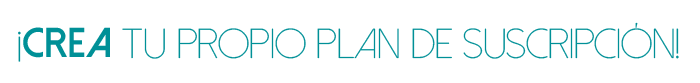
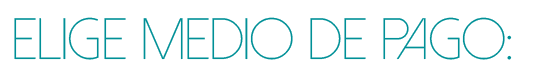
Esqueleto de suscripción de una usuario

Changed region(s): [[0.0, 0.1928, 0.9888, 0.747]]

diff --git a/src/app/components/suscribe/suscribe.component.html b/src/app/components/suscribe/suscribe.component.html
@@ -11,16 +11,43 @@
         <span></span>
       </div>
       <div class="d-flex justify-content-center">
-        <div class="cont">
+        <div class="cont  pt-lg-md">
           <div class="card shadow">
             <div class="col-12 card card-main bg-white">
-                <p><i><small>Elige un medio de pago:</small></i></p><br>
-                <ngx-paypal [config]="payPalConfig"></ngx-paypal>
-                          
-
-            </div>
+              <br><h1>Elige un plan de Suscripción:</h1>
+                <div class="card-group">
+                  <div   *ngFor="let plan of plans">
+                    <div class="card cards" >
+                      <br><div class="card-title">{{plan.namePlan}}</div>
+                        <font color="#27798f" size="6" face="Open Sans"><br><i><b>${{plan.price}}</b></i></font><font color="#27798f" size="4" face="Open Sans"> /mes</font>            
+                         <div class="card-body">
+                          <button type="button" class="mat-button" (click)="triggerModal(modalData)" style="background-color: #569e86;">Suscribirme</button><br><br>
+                          <div class="card-text" [class.show]="plan.visible" >{{plan.descriptionPlan}}</div><br>
+                          <div  class= "text" (click)="plan.visible = !plan.visible">{{ plan.visible ? 'Mostrar menos...': 'Mostrar más...' }}</div>
+                         
+                      </div>
+              <ng-template #modalData let-modal>
+                <div class="modal-header">
+                  <img src="./assets/img/theme/creaplan.png" style="float: right; width: 80%;" class="img-fluid"><br>
+                  <button type="button" class="close" style="margin-top: -10px;" aria-label="Close" (click)="modal.dismiss('Cross click')">
+                    <span aria-hidden="true">×</span>
+                  </button>
+                </div>
+                <div class="modal-body">
+                  <p>Puedes optar por pagos seguros Paypal/Crédito/Débito:</p><br>
+                  <ngx-paypal [config]="payPalConfig"></ngx-paypal>
+                </div>
+                  <div class="modal-footer">
+                    <button type="button" class="mat-button" style="background-color: #ffe3b3;" (click)="modal.close('Save click')">CERRAR</button>
+                    <button type="button" class="mat-button" style="background-color: #569e86;" (click)="modal.close('Save click')">GUARDAR</button>
+                  </div>
+              </ng-template>
+            </div> 
+          </div>
         </div>
       </div>
     </div>
+  </div>
+</div>
 </section>
 </main>

diff --git a/src/app/components/suscribe/suscribe.component.ts b/src/app/components/suscribe/suscribe.component.ts
@@ -2,6 +2,8 @@ import { Component, OnInit, ViewChild } from '@angular/core';
 import { ICreateOrderRequest } from "ngx-paypal";
 import { NgModule, CUSTOM_ELEMENTS_SCHEMA } from '@angular/core';
 import { HttpHeaders } from '@angular/common/http';
+import {ModalDismissReasons, NgbModal} from '@ng-bootstrap/ng-bootstrap';
+import { SuscriptionPlans } from 'src/app/model/SuscriptionPlans';
 
 @Component({
   selector: 'app-suscribe',
@@ -11,11 +13,52 @@ import { HttpHeaders } from '@angular/common/http';
 
 export class SuscribeComponent implements OnInit {
   public payPalConfig: any;
- 
+  closeModal: string;
+  show = false;
+
+
+
+  plans = [
+    {
+      namePlan: "Gratis",
+      descriptionPlan: "El suscriptor podrá acceder a tu contenido seleccionado de forma gratuita.",
+      price: 0,
+      visible: false
+    },
+    {
+      namePlan: "Normal",
+      descriptionPlan: "El suscriptor podrá acceder a tu contenido seleccionado suscribiendose a una membresía mensual.",
+      price: 400,
+      visible: false
+    },
+    {
+      namePlan: "VIP",
+      descriptionPlan: "El suscriptor podrá acceder a todo su contenido + mensajería mediante una suscripción mensual.",
+      price: 900,
+      visible: false
+    }
+  ]
   
 
-  constructor() { }
+  constructor(private modalService: NgbModal) {}
+    
+  triggerModal(content) {
+    this.modalService.open(content, {ariaLabelledBy: 'modal-basic-title'}).result.then((res) => {
+      this.closeModal = `Closed with: ${res}`;
+    }, (res) => {
+      this.closeModal = `Dismissed ${this.getDismissReason(res)}`;
+    });
+  }
 
+  private getDismissReason(reason: any): string {
+    if (reason === ModalDismissReasons.ESC) {
+      return 'by pressing ESC';
+    } else if (reason === ModalDismissReasons.BACKDROP_CLICK) {
+      return 'by clicking on a backdrop';
+    } else {
+      return  `with: ${reason}`;
+    }
+  }
   
   ngOnInit(): void {
     

diff --git a/src/app/components/suscribe/suscribe.component.css b/src/app/components/suscribe/suscribe.component.css
@@ -3,8 +3,99 @@
 }
 
 .cont{
-    margin-top: 100px;
+    margin-top: 30px;
+    text-align: center;
+    display: flex;
+    justify-content: center;
     max-width: 70%;
-    min-width: 300px;
     height: auto;
+
+  
+}
+
+.mat-button{
+    background-color: #9fb3b8;
+    color: #ffffff;
+    text-align: right;
+
+}
+
+.cards{
+    filter: drop-shadow(2px 1px 0.80rem #f1f6f7);
+    border-radius: 10px;
+    max-width:290px;
+    max-height: 350px;
+    margin: 5px;
+  
+}
+
+
+
+.card-body{
+    filter: drop-shadow(0px 0px 0.08rem #e7eff0);
+    align-items: center !important;
+    align-content: center !important;  
+    
+}
+
+.card-title{
+    font-size:20px;
+    font-style: bold;
+    margin-top: 10px;
+}
+
+.card-text{
+    font-style: oblique;
+    line-height: 16px;
+    height: 50px;
+    overflow: hidden;
+}
+
+.show {
+    overflow: visible;
+    height: auto;
+  }
+
+.text{
+    cursor:pointer;
+    font-size: small;
+}
+
+.card-group{
+    justify-content: center;
+    flex-direction:row;
+    margin-bottom: 20px;
+    
+}
+
+.button-footer-card{
+    text-align: right;
+}
+
+
+@media screen and (max-width: 580px) {
+  
+    .cont{
+        margin-top: 30px;
+        text-align: center;
+        display: flex;
+        justify-content: center;
+        max-width: 90%;
+        height: auto;
+    }
+
+    .card-group{
+        justify-content: center;
+        flex-direction: column;
+
+    }
+
+    .cards{
+        filter: drop-shadow(2px 1px 0.80rem #f1f6f7);
+        border-radius: 10px;
+        max-width:300px;
+        max-height: 500px;
+        
+    }
+
 }

diff --git a/src/app/model/SuscriptionPlans.ts b/src/app/model/SuscriptionPlans.ts
@@ -1,0 +1,9 @@
+export class SuscriptionPlans{
+    constructor(
+            creatorId:       number,
+            idPlan:          number,
+            namePlan:        string,
+            descriptionPlan: string,
+            price:           number,
+    ){}
+}
